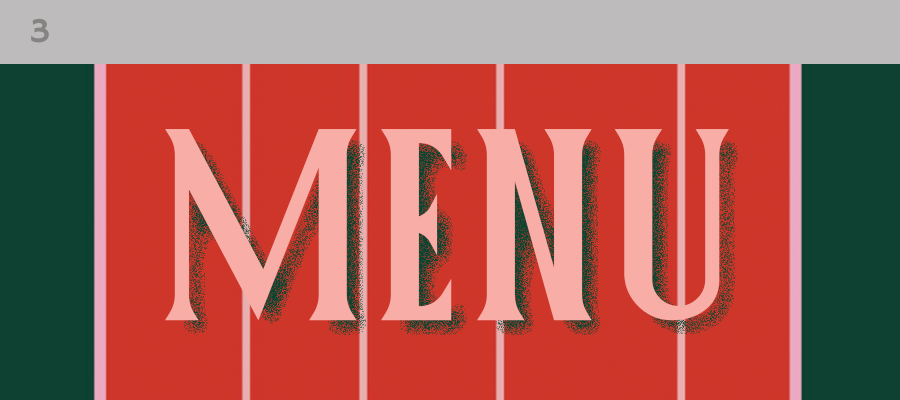
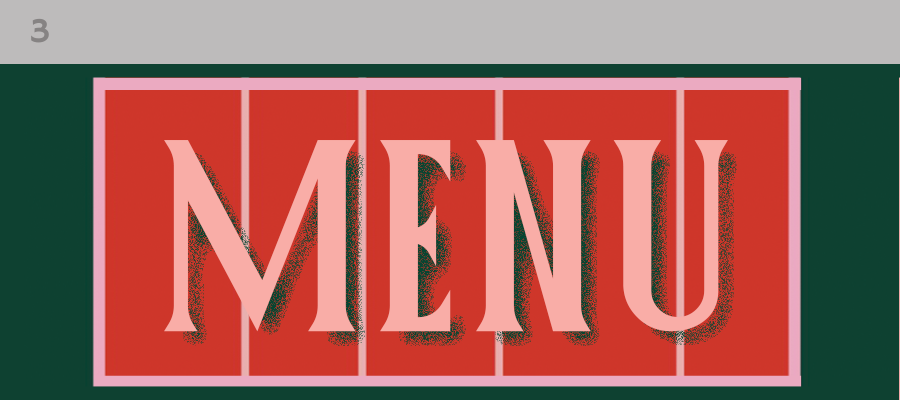
xnqisp

Changed region(s): [[0.0933, 0.15, 0.9022, 1.0], [0.9956, 0.18, 1.0, 1.0]]

diff --git a/page1.html/style1.css b/page1.html/style1.css
@@ -31,14 +31,21 @@ a:hover {
 
 img {
     margin-top: 20px;
-    max-width: 70%; /* Reduce the image width for smaller screens */
+    max-width: 100%; 
     height: auto; /* Maintain aspect ratio */
-    border: 3px solid rgb(106, 0, 144); /* Thinner border for a refined look */
-    border-radius: 5px; /* Subtle rounding for edges */
     display: block; /* Center the image */
     margin-left: auto;
     margin-right: auto;
     margin-bottom: 50px;
+}
+
+/* Specific styling for the bottom image to make it full-width */
+.full-width-image {
+    width: 100vw; /* Expand the image to the full width of the viewport */
+    height: auto; /* Maintain aspect ratio */
+    margin: 0; /* Remove any margin */
+    padding: 0; /* Remove padding if any */
+    display: block; /* Ensure the image is a block-level element */
 }
 
 /* Responsive Design */
@@ -46,11 +53,17 @@ img {
     img {
         max-width: 50%; /* Image is larger for medium-sized screens */
     }
+    .full-width-image {
+        max-width: 100%; /* Full width remains intact */
+    }
 }
 
 @media (min-width: 1024px) {
     img {
         max-width: 40%; /* Image is even smaller for wider screens */
+    }
+    .full-width-image {
+        max-width: 100%; /* Full width remains intact */
     }
 }
 
@@ -65,7 +78,5 @@ img {
 .gallery img {
     width: auto; /* Keep the original width of the images */
     height: auto; /* Maintain the original aspect ratio */
-    border: 3px solid rgb(106, 0, 144); /* Optional border for styling */
-    border-radius: 5px; /* Subtle rounded corners */
     box-shadow: 0 4px 8px rgba(0, 0, 0, 0.1); /* Add subtle shadow for depth */
 }

diff --git a/page1.html/index.html b/page1.html/index.html
@@ -13,11 +13,7 @@
             I had the privilege of collaborating with Cadbury on their Diwali packaging for their e-commerce platform, <br> a creatively fulfilling and inspiring experience. The project celebrated togetherness, <br> a cornerstone of Diwali, through a unique card game designed to foster family connections <br> as well as custom box packaging which included a picture frame, goodie bag filled with choclates as well as a <br>personalised message making this the perfect gift to celebrate this festival of lights and unity. <br><br>
 </p>
 <div class="gallery">
-    <img src="image/Cadbury mockup.png" alt="Image 1">
-    <img src="image/Cadbury packaging..jpeg" alt="Image 2">
-    <img src="image/PVR INOX Diwali Promotion Deck 01_12.10.2024.pptx (7).jpg" alt="Image 3">
-    <img src="image/PVR INOX Diwali Promotion Deck 01_12.10.2024.pptx (8).jpg" alt="Image 4">
-    <img src="image/Sleeve Design (Line Art)2 .png"Image 5">
+    <img src="image/first.JPG" alt="Image 1">
 </div>
 
     </main>
